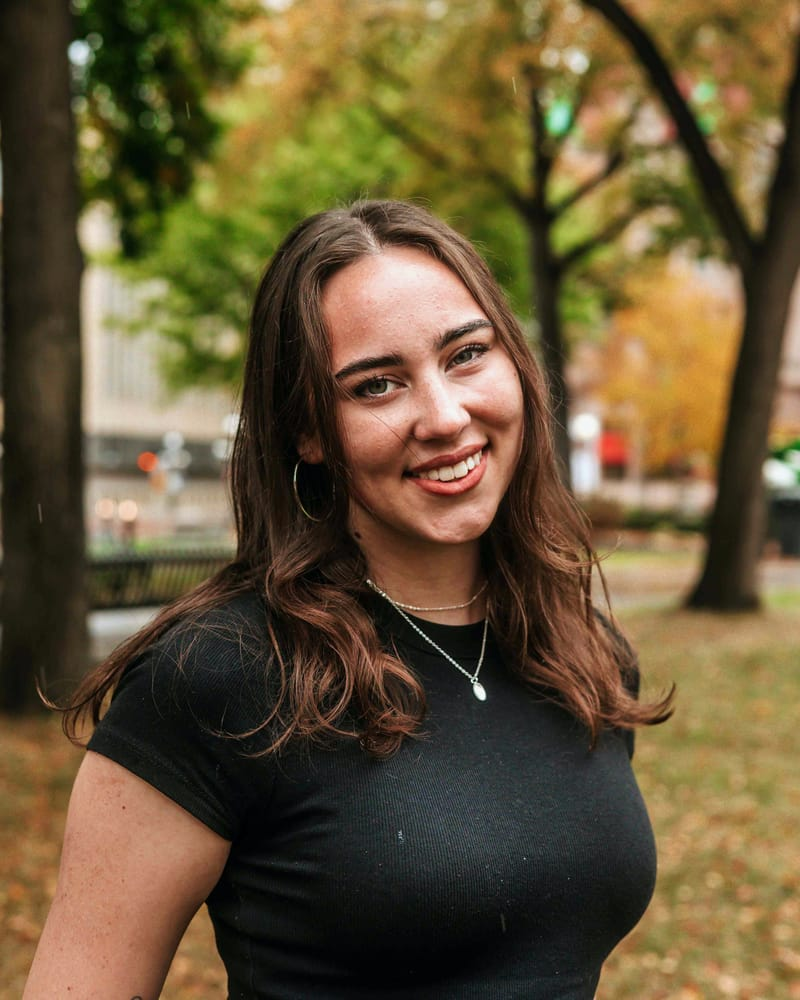
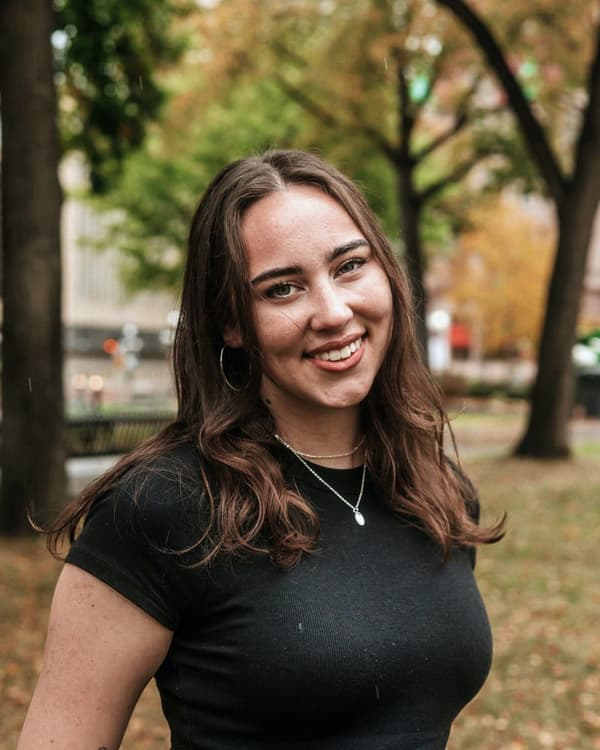
Standardize member card styling and grid proportions

diff --git a/src/pages/Members.tsx b/src/pages/Members.tsx
@@ -28,10 +28,8 @@ const MemberCard = memo(function MemberCard({ member }: { member: Member }) {
   const isDaniel = member.name === 'Daniel Ho';
 
   return (
-    <motion.div
-      whileHover={{ y: -6 }}
-      whileTap={{ scale: 0.98 }}
-      className="group bg-white p-3 border border-gray-100 flex flex-col items-center text-center relative overflow-hidden transition-[box-shadow,border-color] duration-300 hover:shadow-xl hover:border-[#8FA8C8] w-full"
+    <div
+      className="bg-white p-3 border border-[#8FA8C8] flex flex-col items-center text-center relative overflow-hidden shadow-xl w-full"
       style={{ borderRadius: '12px' }}
     >
       {!isDaniel && member.is_vp && (
@@ -73,10 +71,9 @@ const MemberCard = memo(function MemberCard({ member }: { member: Member }) {
           <span className="block">{firstName}</span>
           <span className="block">{lastName}</span>
         </h3>
-        <p className="text-[#8FA8C8] text-[10px] tracking-wider mb-2">{member.role}</p>
-
-        <div className="space-y-0.5 text-[11px] text-[#2B4C6F]/80 leading-tight" style={{ fontFamily: 'Inter, sans-serif' }}>
-          <p>{member.major}</p>
+        <div className="space-y-0.5 text-[11px] leading-tight" style={{ fontFamily: 'Inter, sans-serif' }}>
+          <p className="text-[#8FA8C8] tracking-wider mb-2">{member.role}</p>
+          <p className="text-[#2B4C6F]/80">{member.major}</p>
           <p className="text-[#2B4C6F]/50">{member.year}</p>
         </div>
 
@@ -95,7 +92,7 @@ const MemberCard = memo(function MemberCard({ member }: { member: Member }) {
           </div>
         )}
       </div>
-    </motion.div>
+    </div>
   );
 });
 
@@ -207,10 +204,10 @@ export function Members() {
           <div className="animate-spin rounded-full h-8 w-8 border-b-2 border-[#8FA8C8]" />
         </div>
       ) : (
-        /* Flex container for Sections */
-        <div className="flex flex-wrap justify-center items-start gap-8">
+        /* 2-column grid on tablet+, single column on mobile */
+        <div className="grid grid-cols-1 sm:grid-cols-2 gap-x-8 gap-y-12 items-start">
           {groupedMembers.map(({ part, members }) => (
-            <section key={part} className={`flex flex-col items-center w-full sm:w-auto ${part === 'Bass/Bari' ? 'max-w-[400px]' : 'max-w-[600px]'}`}>
+            <section key={part} className="flex flex-col items-center w-full">
               <h2
                 className="text-[#2B4C6F] mb-6 tracking-widest border-b-2 border-[#8FA8C8]/20 pb-2 text-center w-full font-yearbook"
                 style={{ ...fontYearbook, fontSize: '18px' }}
@@ -220,8 +217,8 @@ export function Members() {
                     part === 'Member' ? 'Members' :
                       part.endsWith('s') ? part : `${part}s`}
               </h2>
-              {/* Grid: 3 cols min for others, 2 cols for Bass/Bari */}
-              <div className={`grid gap-4 w-full ${part === 'Bass/Bari' ? 'grid-cols-2' : 'grid-cols-3'}`}>
+              {/* Card Grid: Standard 2 on mobile, 3 on desktop. Basses 4 on desktop for 4x1/2x2 */}
+              <div className={`grid gap-4 w-full ${part === 'Bass/Bari' ? 'grid-cols-2 sm:grid-cols-4' : 'grid-cols-2 sm:grid-cols-3'}`}>
                 {members.map((member, index) => (
                   <MemberCard key={index} member={member} />
                 ))}

diff --git a/scripts/compress-images.js b/scripts/compress-images.js
@@ -18,8 +18,11 @@ async function compressImages() {
                 console.log(`Processing ${file} (${(stats.size / 1024 / 1024).toFixed(2)} MB)`);
 
                 await sharp(filePath)
-                    .resize(800) // Resize to a reasonable width for member cards
-                    .jpeg({ quality: 80, mozjpeg: true })
+                    .resize(600) // Reduced from 800 to further save space
+                    .modulate({
+                        saturation: 0.8 // Reduce saturation by 20% to make them more "dull"
+                    })
+                    .jpeg({ quality: 75, mozjpeg: true }) // Reduced quality to 75
                     .toFile(tempPath);
 
                 fs.unlinkSync(filePath);
